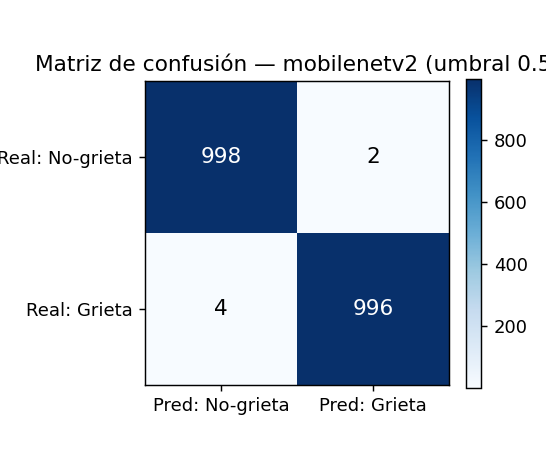
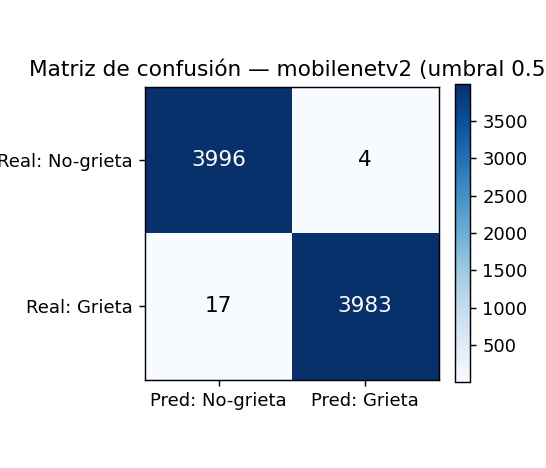
feat(evaluate): evaluar con el set de test completo (8000 imágenes)
- --n-per-class por defecto 4000 (todo el test: 4000 grieta / 4000 sin grieta)
- resultados más robustos: unet F1 0.9976 / recall 0.9980 / ROC-AUC 0.9996
  (TN=3989, FP=11, FN=8, TP=3992); mobilenetv2 F1 0.9974 / ROC-AUC 1.0000
- regenerados stats_modelo_binario.md, estadisticas.csv, cifras_clave.md y metricas.json
- guia de entrenamiento actualizada

diff --git a/backend/model/model_binary/evaluate.py b/backend/model/model_binary/evaluate.py
@@ -402,7 +402,7 @@ def main():
     p.add_argument("--models", nargs="+", default=["unet", "mobilenetv2"])
     p.add_argument("--split", default="test", choices=["validation", "test"])
     p.add_argument("--input-size", type=int, default=64)
-    p.add_argument("--n-per-class", type=int, default=1000)
+    p.add_argument("--n-per-class", type=int, default=4000, help="imágenes por clase (4000 = todo el test)")
     p.add_argument("--seed", type=int, default=42)
     args = p.parse_args()
 

diff --git a/agents/tecnico/stats_modelo_binario.md b/agents/tecnico/stats_modelo_binario.md
@@ -5,7 +5,7 @@ Reporte generado automáticamente por `evaluate.py`.
 ## 1. Dataset de evaluación
 
 - **Fuente**: METU — Concrete Crack Images for Classification (Özgenel, 2019).
-- **Set**: `test` con 2000 imágenes (1000 grieta / 1000 sin grieta).
+- **Set**: `test` con 8000 imágenes (4000 grieta / 4000 sin grieta).
 - **Entrada**: RGB 64×64, normalizado a [0, 1].
 - **Umbral por defecto**: 0.5.
 
@@ -13,22 +13,22 @@ Reporte generado automáticamente por `evaluate.py`.
 
 | Modelo | Accuracy | Precision | Recall | Specificity | F1 | ROC-AUC | PR-AUC |
 |--------|----------|-----------|--------|-------------|----|---------|--------|
-| unet | 0.9970 | 0.9960 | 0.9980 | 0.9960 | 0.9970 | 0.9995 | 0.9995 |
-| mobilenetv2 | 0.9970 | 0.9980 | 0.9960 | 0.9980 | 0.9970 | 0.9999 | 0.9999 |
+| unet | 0.9976 | 0.9973 | 0.9980 | 0.9972 | 0.9976 | 0.9996 | 0.9996 |
+| mobilenetv2 | 0.9974 | 0.9990 | 0.9958 | 0.9990 | 0.9974 | 1.0000 | 1.0000 |
 
 ## 3.1 Detalle — unet
 
 - Parámetros: **121,883**
 - Tamaño TFLite: **492.2 KB**
-- Latencia: **1.514 ms/parche** (~660.4 parches/s, CPU)
+- Latencia: **1.49 ms/parche** (~671.0 parches/s, CPU)
 - Umbral óptimo (mejor F1): **0.54** | Youden J: **0.54**
 
 **Matriz de confusión** (umbral 0.5):
 
 | | Pred: No-grieta | Pred: Grieta |
 |---|---|---|
-| **Real: No-grieta** | TN=996 | FP=4 |
-| **Real: Grieta** | FN=2 | TP=998 |
+| **Real: No-grieta** | TN=3989 | FP=11 |
+| **Real: Grieta** | FN=8 | TP=3992 |
 
 ![confusión unet](confusion_unet.png)
 
@@ -36,15 +36,15 @@ Reporte generado automáticamente por `evaluate.py`.
 
 - Parámetros: **411,489**
 - Tamaño TFLite: **1600.3 KB**
-- Latencia: **0.304 ms/parche** (~3294.8 parches/s, CPU)
-- Umbral óptimo (mejor F1): **0.31** | Youden J: **0.31**
+- Latencia: **0.163 ms/parche** (~6138.1 parches/s, CPU)
+- Umbral óptimo (mejor F1): **0.26** | Youden J: **0.26**
 
 **Matriz de confusión** (umbral 0.5):
 
 | | Pred: No-grieta | Pred: Grieta |
 |---|---|---|
-| **Real: No-grieta** | TN=998 | FP=2 |
-| **Real: Grieta** | FN=4 | TP=996 |
+| **Real: No-grieta** | TN=3996 | FP=4 |
+| **Real: Grieta** | FN=17 | TP=3983 |
 
 ![confusión mobilenetv2](confusion_mobilenetv2.png)
 
@@ -74,9 +74,9 @@ La época se elige por **`ModelCheckpoint(monitor="val_auc", mode="max", save_be
 
 ## 5. Conclusión
 
-- Mejor **F1**: `unet` (0.9970).
+- Mejor **F1**: `unet` (0.9976).
 - Modelo más **ligero**: `unet` (121,883 parámetros, 492.2 KB).
-- Menor **latencia**: `mobilenetv2` (0.304 ms/parche).
+- Menor **latencia**: `mobilenetv2` (0.163 ms/parche).
 - Si el F1 empata, se recomienda el modelo **más ligero** para el filtro rápido en móvil; MobileNetV2 aporta su mejor latencia vía XNNPACK.
 
 ## 6. Limitaciones

diff --git a/agents/datos/cifras_clave.md b/agents/datos/cifras_clave.md
@@ -2,12 +2,12 @@
 
 > Generado por `evaluate.py` desde [`metricas.json`](metricas.json). **No editar a mano.**
 
-## Modelo binario — set `test` (2000 imágenes: 1000 grieta / 1000 sin grieta)
+## Modelo binario — set `test` (8000 imágenes: 4000 grieta / 4000 sin grieta)
 
 | Modelo | F1 | Recall | ROC-AUC | Parámetros | TFLite | Latencia |
 |--------|----|--------|---------|-----------|--------|----------|
-| `unet` | 0.9970 | 0.9980 | 0.9995 | 121,883 | 492.2 KB | 1.514 ms/parche |
-| `mobilenetv2` | 0.9970 | 0.9960 | 0.9999 | 411,489 | 1600.3 KB | 0.304 ms/parche |
+| `unet` | 0.9976 | 0.9980 | 0.9996 | 121,883 | 492.2 KB | 1.49 ms/parche |
+| `mobilenetv2` | 0.9974 | 0.9958 | 1.0000 | 411,489 | 1600.3 KB | 0.163 ms/parche |
 
-- **Modelo desplegado**: `unet` (mejor F1 = 0.9970; el más ligero es `unet`, 121,883 parámetros).
+- **Modelo desplegado**: `unet` (mejor F1 = 0.9976; el más ligero es `unet`, 121,883 parámetros).
 - Detalle completo y matrices de confusión: [`../tecnico/stats_modelo_binario.md`](../tecnico/stats_modelo_binario.md).

diff --git a/agents/guias/entrenamiento.md b/agents/guias/entrenamiento.md
@@ -35,7 +35,7 @@ python train.py --model mobilenetv2 --epochs 12 --fine-tune-epochs 6
 ## Evaluar
 
 ```bash
-python evaluate.py --split test --n-per-class 1000
+python evaluate.py --split test --n-per-class 4000   # set de test completo (8000 imágenes)
 ```
 
 Genera el reporte de métricas en
